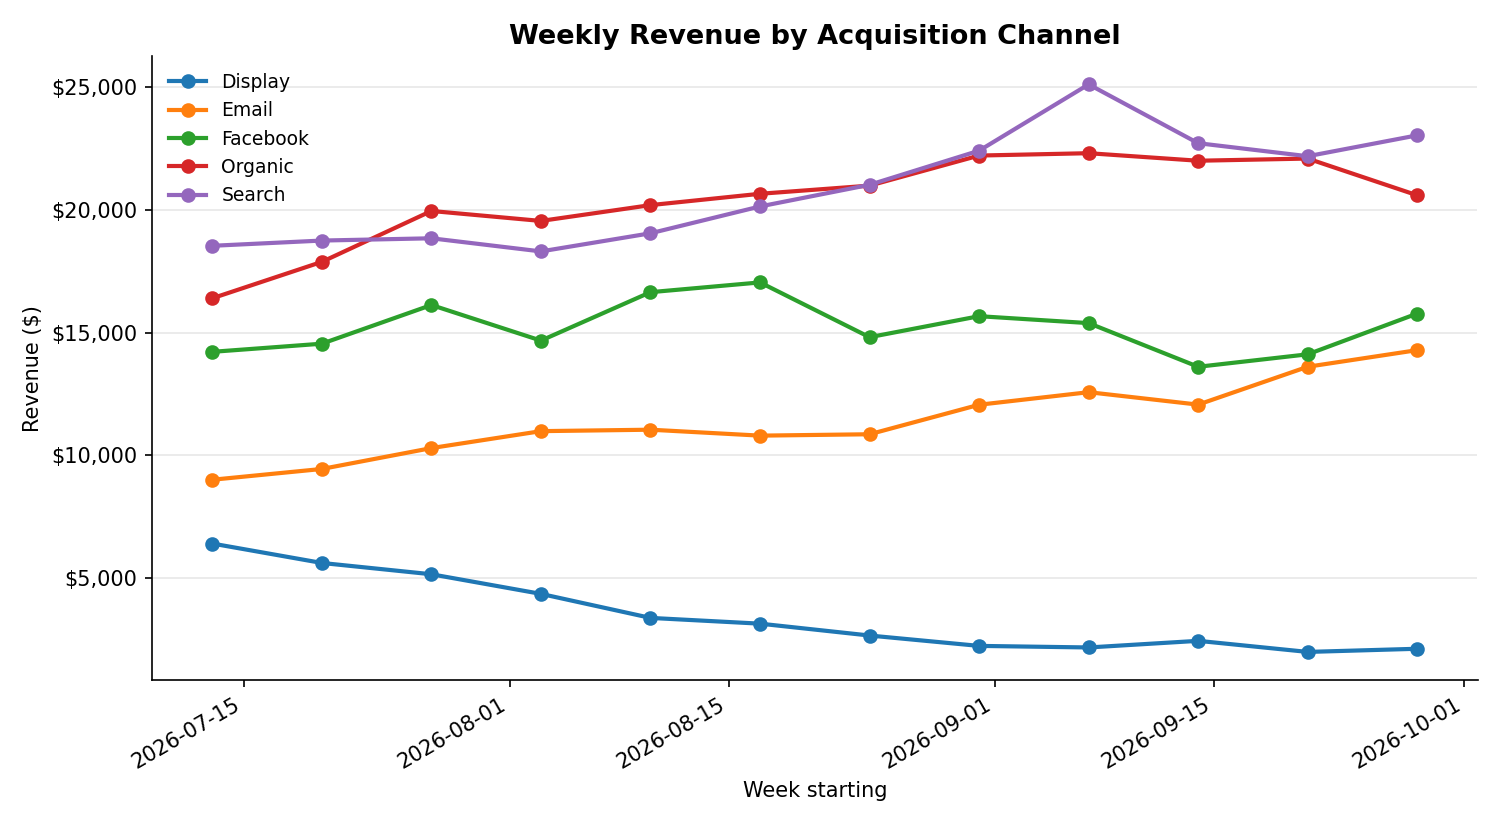
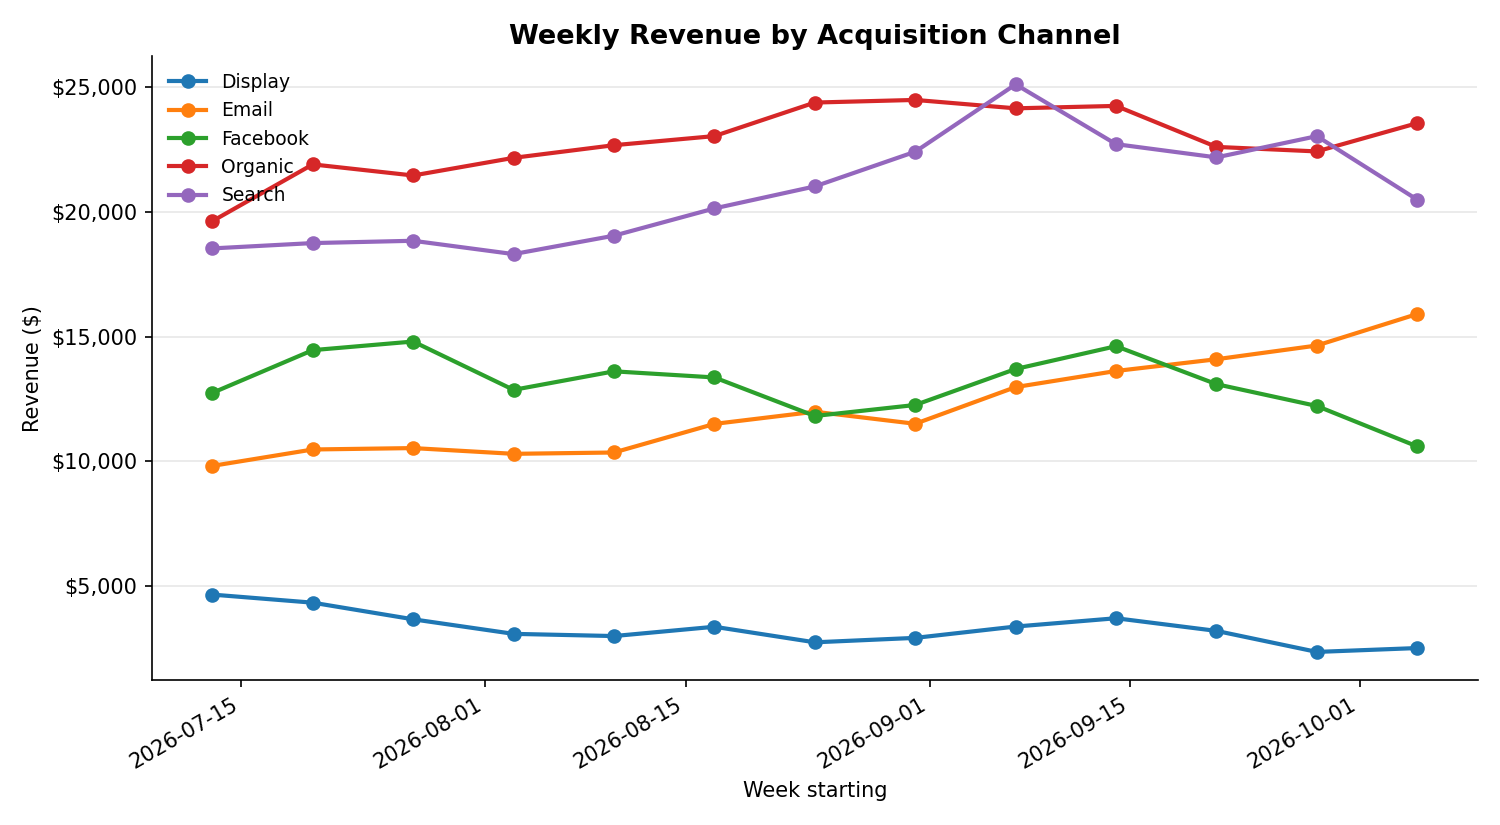
session funnel updates

diff --git a/src/analyze_channel_performance.py b/src/analyze_channel_performance.py
@@ -4,7 +4,8 @@ Weekly channel performance analyzer
 ------------------------------------
 Pulls weekly revenue/orders/customers by acquisition channel from
 bigquery-public-data.thelook_ecommerce, computes week-over-week change,
-renders a trend chart, and writes a plain-English summary.
+renders a trend chart, and writes a plain-English summary. Also builds a
+session-level funnel (sessions → cart → purchase) from the events table.
 
 Usage:
     python analyze_channel_performance.py --project YOUR_GCP_PROJECT_ID --weeks 12
@@ -22,6 +23,7 @@ import matplotlib.ticker as mticker
 import pandas as pd
 
 SQL_PATH = Path(__file__).parent / "weekly_channel_performance.sql"
+FUNNEL_SQL_PATH = Path(__file__).parent / "session_funnel.sql"
 
 
 def parse_args():
@@ -47,6 +49,8 @@ def get_weeks_back(args):
         print("Please enter a positive whole number (e.g. 8), or press Enter for the default.")
 
 
+# --- Weekly channel performance: data loading ---
+
 def load_demo_data(weeks_back):
     demo_path = Path(__file__).parent.parent / "sample_data" / "demo_weekly_channel_performance.csv"
     df = pd.read_csv(demo_path, parse_dates=["week_start"])
@@ -64,6 +68,8 @@ def fetch_from_bigquery(project, weeks_back):
     )
     return client.query(query, job_config=job_config).to_dataframe()
 
+
+# --- Weekly channel performance: chart, WoW calc, summary ---
 
 def plot_trend(df, out_path):
     pivot = df.pivot_table(index="week_start", columns="channel", values="revenue", aggfunc="sum")
@@ -171,6 +177,88 @@ def write_summary(wow, out_path):
     out_path.write_text("\n".join(lines) + "\n")
 
 
+# --- Session funnel: data loading, chart, summary ---
+
+def fetch_funnel_from_bigquery(project, weeks_back):
+    from google.cloud import bigquery
+
+    client = bigquery.Client(project=project)
+    query = FUNNEL_SQL_PATH.read_text()
+    job_config = bigquery.QueryJobConfig(
+        query_parameters=[bigquery.ScalarQueryParameter("weeks_back", "INT64", weeks_back)]
+    )
+    return client.query(query, job_config=job_config).to_dataframe()
+
+
+def load_demo_funnel_data():
+    demo_path = Path(__file__).parent.parent / "sample_data" / "demo_session_funnel.csv"
+    return pd.read_csv(demo_path)
+
+
+def plot_funnel(df, out_path):
+    totals = [df["sessions"].sum(), df["added_to_cart"].sum(), df["purchased"].sum()]
+    labels = ["Sessions", "Added to Cart", "Purchased"]
+
+    fig, ax = plt.subplots(figsize=(8, 4.5))
+    bars = ax.barh(labels, totals, color=["#4C72B0", "#DD8452", "#55A868"])
+    ax.invert_yaxis()  # largest stage on top
+    ax.set_xlabel("Sessions")
+    ax.set_title("Session Funnel: Sessions → Cart → Purchase", fontsize=13, fontweight="bold")
+    ax.spines[["top", "right"]].set_visible(False)
+    ax.xaxis.set_major_formatter(mticker.FuncFormatter(lambda x, _: f"{x:,.0f}"))
+
+    for bar, total in zip(bars, totals):
+        pct = total / totals[0] * 100
+        ax.text(bar.get_width() + totals[0] * 0.01, bar.get_y() + bar.get_height() / 2,
+                 f"{total:,.0f} ({pct:.0f}%)", va="center", fontsize=10)
+
+    fig.tight_layout()
+    fig.savefig(out_path, dpi=150)
+    plt.close(fig)
+
+
+def write_funnel_summary(df, out_path):
+    if df.empty:
+        out_path.write_text("No funnel data available.\n")
+        return
+
+    df = df.copy()
+    df["cart_rate_pct"] = (df["added_to_cart"] / df["sessions"] * 100).round(1)
+    df["purchase_rate_pct"] = (df["purchased"] / df["added_to_cart"].replace(0, pd.NA) * 100).round(1)
+    df["overall_conversion_pct"] = (df["purchased"] / df["sessions"] * 100).round(1)
+
+    total_sessions = df["sessions"].sum()
+    total_cart = df["added_to_cart"].sum()
+    total_purchased = df["purchased"].sum()
+
+    lines = [
+        "# Session Funnel Summary",
+        "",
+        "**Sessions → Cart → Purchase**, by channel. Note: this uses "
+        "`events.traffic_source`, a separate field/taxonomy from "
+        "`users.traffic_source` used in the weekly revenue report — the two "
+        "should not be compared directly.",
+        "",
+        "## Overall",
+        f"- {total_sessions:,} sessions → {total_cart:,} added to cart "
+        f"({total_cart/total_sessions*100:.1f}%) → {total_purchased:,} purchased "
+        f"({total_purchased/total_cart*100:.1f}% of cart-adders, "
+        f"{total_purchased/total_sessions*100:.1f}% of all sessions).",
+        "",
+        "## By channel",
+        "",
+        "| Channel | Sessions | Added to Cart | Cart Rate | Purchased | Purchase Rate (of cart) | Overall Conversion |",
+        "|---|---:|---:|---:|---:|---:|---:|",
+    ]
+    for _, row in df.sort_values("sessions", ascending=False).iterrows():
+        lines.append(
+            f"| {row['channel']} | {row['sessions']:,} | {row['added_to_cart']:,} | "
+            f"{row['cart_rate_pct']:.1f}% | {row['purchased']:,} | "
+            f"{row['purchase_rate_pct']:.1f}% | {row['overall_conversion_pct']:.1f}% |"
+        )
+    out_path.write_text("\n".join(lines) + "\n")
+
+
 def main():
     args = parse_args()
     weeks_back = get_weeks_back(args)
@@ -194,6 +282,17 @@ def main():
     wow = compute_wow_change(df, trim_recent_weeks=args.trim_recent)
     write_summary(wow, output_dir / "summary.md")
     print(f"Saved summary to {output_dir}/summary.md")
+
+    if args.demo:
+        funnel_df = load_demo_funnel_data()
+    else:
+        funnel_df = fetch_funnel_from_bigquery(args.project, weeks_back)
+
+    plot_funnel(funnel_df, output_dir / "session_funnel.png")
+    print(f"Saved funnel chart to {output_dir}/session_funnel.png")
+
+    write_funnel_summary(funnel_df, output_dir / "funnel_summary.md")
+    print(f"Saved funnel summary to {output_dir}/funnel_summary.md")
 
 
 if __name__ == "__main__":

diff --git a/src/generate_demo_data.py b/src/generate_demo_data.py
@@ -15,8 +15,7 @@ from pathlib import Path
 import numpy as np
 import pandas as pd
 
-from analyze_channel_performance import plot_trend, compute_wow_change, write_summary
-
+from analyze_channel_performance import plot_trend, compute_wow_change, write_summary, plot_funnel, write_funnel_summary
 np.random.seed(7)  # fixed seed = same "random" output every run
 
 CHANNELS = {
@@ -73,6 +72,28 @@ sample_output_dir.mkdir(exist_ok=True)
 plot_trend(df, sample_output_dir / "channel_revenue_trend.png")
 wow = compute_wow_change(df, trim_recent_weeks=0)  # clean synthetic data, nothing to trim
 write_summary(wow, sample_output_dir / "summary.md")
-df.to_csv(sample_output_dir / "weekly_channel_performance.csv", index=False)
 
-print(f"Also wrote chart, data, and summary to {sample_output_dir}/")
+# --- Session funnel demo data ---
+FUNNEL_CHANNELS = {
+    # channel: (sessions, cart_rate, purchase_rate_of_cart)
+    "Email":    (19492, 0.823, 0.794),
+    "Adwords":  (12869, 0.822, 0.794),
+    "Facebook": (4387,  0.833, 0.791),
+    "YouTube":  (4303,  0.836, 0.781),
+    "Organic":  (2187,  0.827, 0.782),
+}
+
+funnel_rows = []
+for channel, (sessions, cart_rate, purchase_rate) in FUNNEL_CHANNELS.items():
+    added_to_cart = int(sessions * cart_rate)
+    purchased = int(added_to_cart * purchase_rate)
+    funnel_rows.append({"channel": channel, "sessions": sessions, "added_to_cart": added_to_cart, "purchased": purchased})
+
+funnel_df = pd.DataFrame(funnel_rows).sort_values("sessions", ascending=False).reset_index(drop=True)
+funnel_csv_path = sample_data_dir / "demo_session_funnel.csv"
+funnel_df.to_csv(funnel_csv_path, index=False)
+print(f"Wrote {len(funnel_df)} rows to {funnel_csv_path}")
+
+plot_funnel(funnel_df, sample_output_dir / "session_funnel.png")
+write_funnel_summary(funnel_df, sample_output_dir / "funnel_summary.md")
+print(f"Saved funnel chart and summary to {sample_output_dir}/")

diff --git a/sample_output/summary.md b/sample_output/summary.md
@@ -1,21 +1,21 @@
 # Weekly Channel Performance Summary
 
-**Period compared:** 2026-09-21 00:00:00 → 2026-09-28 00:00:00
+**Period compared:** 2026-09-28 00:00:00 → 2026-10-05 00:00:00
 
 ## Headline
-- Total revenue across all channels moved **+2.5%** week-over-week ($73,976 → $75,798).
-- **Facebook** had the strongest week-over-week revenue move: +11.8%.
-- **Organic** had the weakest: -6.8%.
+- Total revenue across all channels moved **-2.2%** week-over-week ($74,666 → $73,049).
+- **Email** had the strongest week-over-week revenue move: +8.6%.
+- **Facebook** had the weakest: -13.3%.
 
 ## Channel breakdown
 
 | Channel | Revenue (latest) | WoW Revenue % | Orders (latest) | WoW Orders % |
 |---|---:|---:|---:|---:|
-| Search | $23,037 | +3.8% | 227 | +3.2% |
-| Organic | $20,593 | -6.8% | 326 | -4.4% |
-| Facebook | $15,774 | +11.8% | 126 | -2.3% |
-| Email | $14,283 | +5.0% | 128 | -3.0% |
-| Display | $2,111 | +6.5% | 60 | +7.1% |
+| Organic | $23,559 | +5.1% | 313 | +3.0% |
+| Search | $20,490 | -11.1% | 233 | +2.6% |
+| Email | $15,904 | +8.6% | 127 | +1.6% |
+| Facebook | $10,592 | -13.3% | 126 | -3.1% |
+| Display | $2,505 | +6.6% | 51 | +2.0% |
 
 ## Recommendation
-Investigate **Organic** before next week's spend decisions — a single-week dip can be noise, but if it persists into a second week it's worth checking landing page changes, creative fatigue, or a tracking/attribution issue. Consider reallocating a small amount of test budget toward **Facebook** while the trend holds, and re-check after one more week of data before making a larger shift.
+Investigate **Facebook** before next week's spend decisions — a single-week dip can be noise, but if it persists into a second week it's worth checking landing page changes, creative fatigue, or a tracking/attribution issue. Consider reallocating a small amount of test budget toward **Email** while the trend holds, and re-check after one more week of data before making a larger shift.

diff --git a/sample_output/funnel_summary.md b/sample_output/funnel_summary.md
@@ -1,0 +1,16 @@
+# Session Funnel Summary
+
+**Sessions → Cart → Purchase**, by channel. Note: this uses `events.traffic_source`, a separate field/taxonomy from `users.traffic_source` used in the weekly revenue report — the two should not be compared directly.
+
+## Overall
+- 43,238 sessions → 35,678 added to cart (82.5%) → 28,246 purchased (79.2% of cart-adders, 65.3% of all sessions).
+
+## By channel
+
+| Channel | Sessions | Added to Cart | Cart Rate | Purchased | Purchase Rate (of cart) | Overall Conversion |
+|---|---:|---:|---:|---:|---:|---:|
+| Email | 19,492 | 16,041 | 82.3% | 12,736 | 79.4% | 65.3% |
+| Adwords | 12,869 | 10,578 | 82.2% | 8,398 | 79.4% | 65.3% |
+| Facebook | 4,387 | 3,654 | 83.3% | 2,890 | 79.1% | 65.9% |
+| YouTube | 4,303 | 3,597 | 83.6% | 2,809 | 78.1% | 65.3% |
+| Organic | 2,187 | 1,808 | 82.7% | 1,413 | 78.2% | 64.6% |
